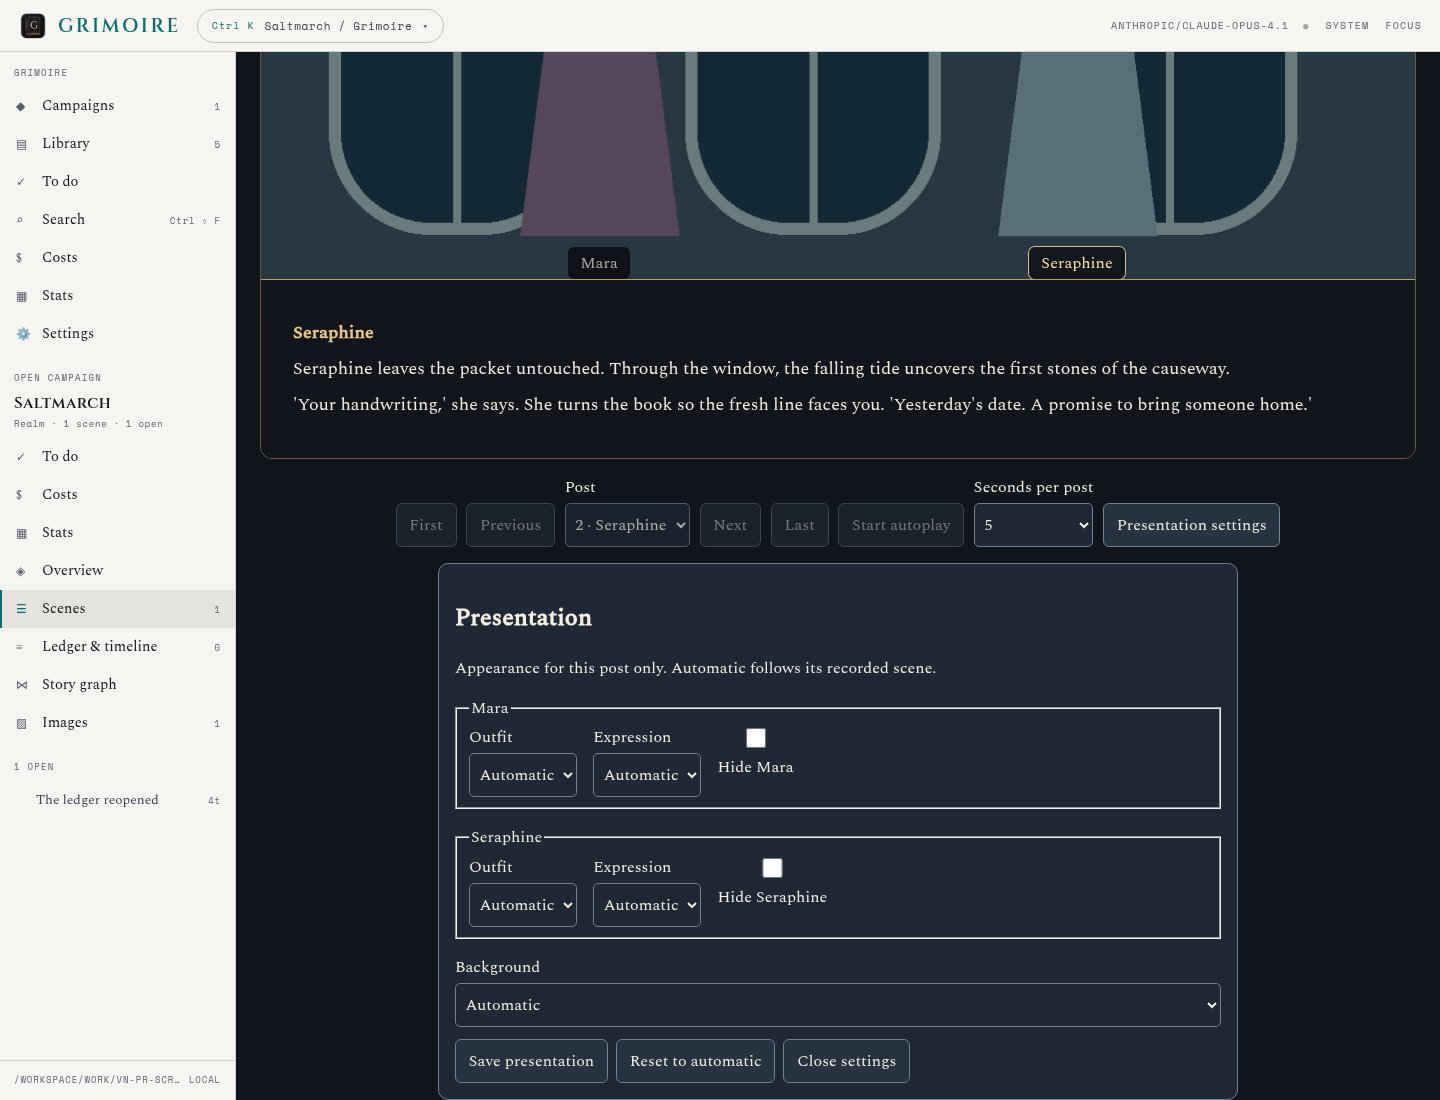
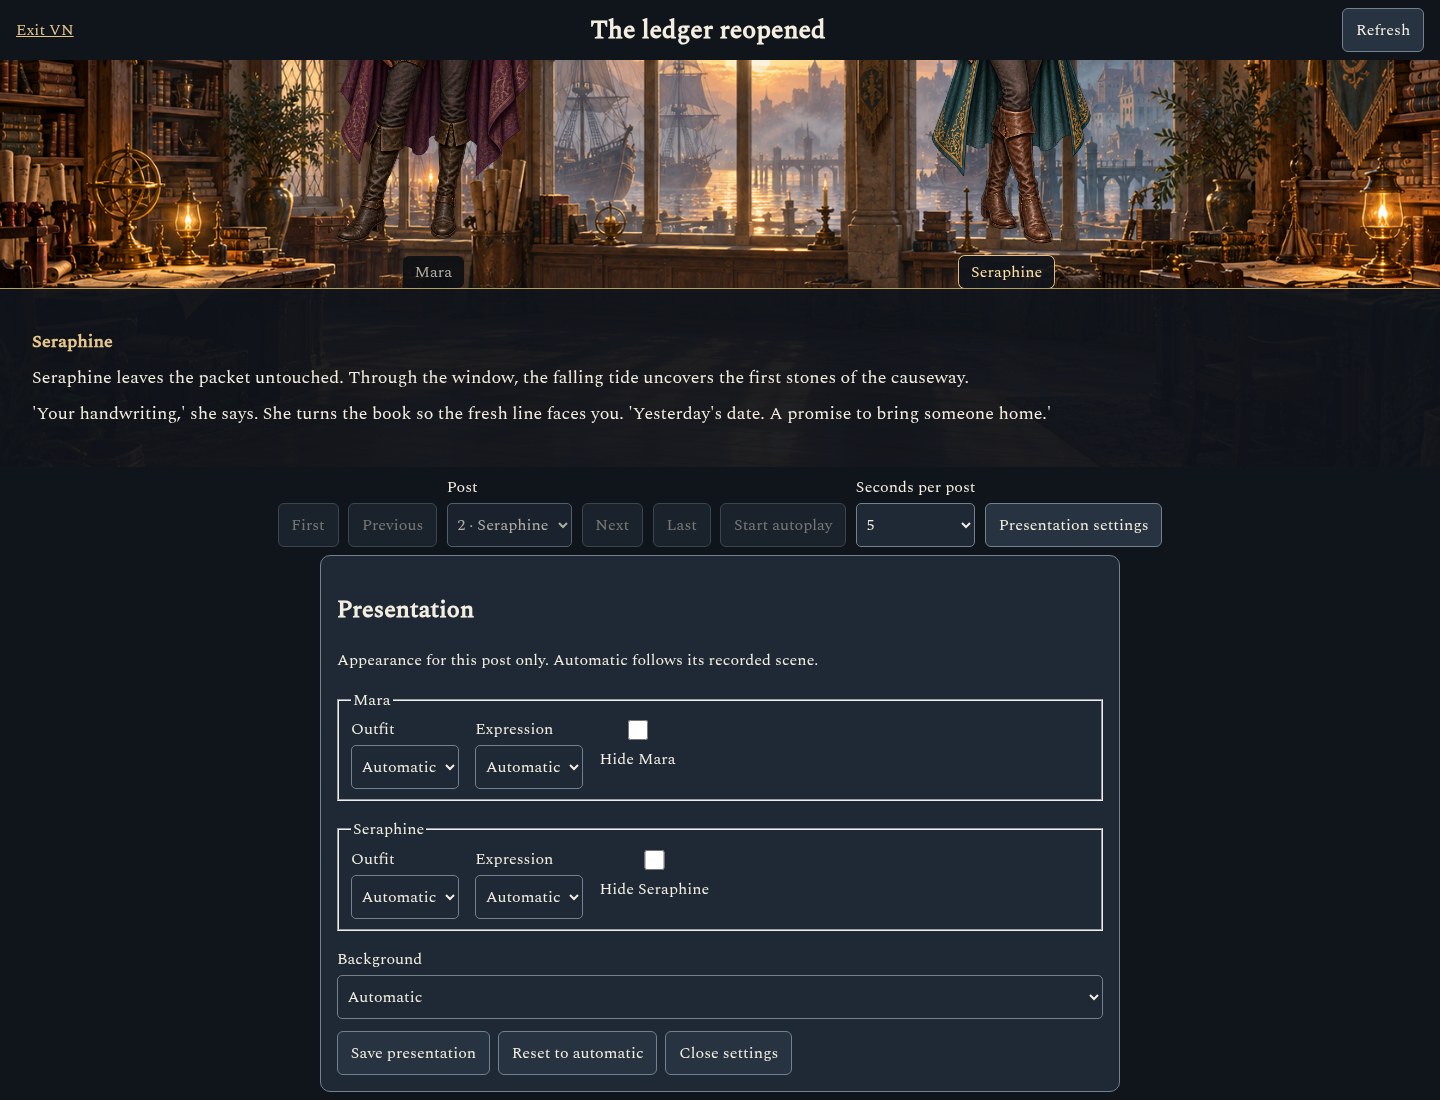
Make VN reader fill the viewport and refresh mockup artwork

diff --git a/frontend/src/components/vn/vn.css b/frontend/src/components/vn/vn.css
@@ -1,1 +1,15 @@
 .vn-reader{flex:1;min-width:0;padding:clamp(.75rem,2vw,1.5rem);background:#10141b;color:#f4eee0;overflow-y:auto}.vn-header{display:flex;align-items:center;justify-content:space-between;gap:1rem;margin-bottom:1rem}.vn-header h1{font-size:clamp(1.1rem,2vw,1.6rem);margin:0}.vn-reader a{color:#e5c58c}.vn-stage{position:relative;isolation:isolate;min-height:65vh;display:flex;flex-direction:column;justify-content:flex-end;border:1px solid #6e5c42;border-radius:12px;overflow:hidden;background:radial-gradient(ellipse at 50% 30%,#374855,#151c26 75%)}.vn-background{position:absolute;inset:0;width:100%;height:100%;object-fit:cover;z-index:-2}.vn-cast{display:flex;justify-content:space-evenly;align-items:flex-end;min-height:35vh;padding:1.5rem 1rem 0;overflow:hidden;gap:1rem}.vn-actor{position:relative;flex:1;min-width:0;max-width:280px;margin:0;text-align:center;filter:brightness(.72)}.vn-speaking{filter:brightness(1)}.vn-portrait{position:relative;height:35vh}.vn-actor img{position:absolute;display:block;width:100%;height:35vh;object-fit:contain;object-position:bottom}.vn-actor figcaption{position:relative;display:inline-block;background:#10141be6;padding:.25rem .75rem;border-radius:6px}.vn-speaking figcaption{color:#ffe2a6;box-shadow:0 0 0 1px #dfc08a}.vn-initials{height:28vh;display:grid;place-items:center;font-size:3rem;background:linear-gradient(transparent,#243341);border-radius:45% 45% 0 0}.vn-dialogue{background:#10141bf0;border-top:1px solid #b99d68;padding:clamp(1rem,3vw,2rem);font-size:1.12rem;line-height:1.65;max-height:45vh;overflow:auto}.vn-dialogue p{margin:.4rem 0}.vn-speaker{color:#e7c68b;font-weight:700}.vn-neutral{align-self:center;color:#d7d1c4}.vn-toolbar{display:flex;flex-wrap:wrap;align-items:end;justify-content:center;gap:.6rem;padding:1rem 0}.vn-reader button,.vn-reader select{min-height:44px;max-width:100%}.vn-reader button{background:#273341;color:#f4eee0;border:1px solid #73808d;border-radius:6px;padding:.5rem .8rem}.vn-reader button:disabled{opacity:.45}.vn-reader label{display:flex;flex-direction:column;gap:.25rem}.vn-reader select{background:#1e2935;color:#f4eee0;border:1px solid #73808d;border-radius:5px;padding:.35rem}.vn-settings{background:#1e2935;border:1px solid #73808d;border-radius:10px;padding:1rem;max-width:800px;margin:auto}.vn-settings fieldset{display:flex;flex-wrap:wrap;gap:1rem;margin:1rem 0}.vn-settings input{min-width:20px;min-height:20px}.vn-settings button{margin:.75rem .5rem 0 0}@media(max-width:500px){.vn-header{gap:.5rem;flex-wrap:wrap}.vn-stage{min-height:60vh}.vn-cast{gap:.4rem;padding:.75rem .4rem 0}.vn-portrait,.vn-actor img{height:28vh}.vn-dialogue{font-size:1rem;max-height:40vh}.vn-toolbar{gap:.4rem}.vn-toolbar button{flex-grow:1}.vn-toolbar label{flex-grow:1}.vn-settings fieldset{flex-direction:column}}@media(prefers-reduced-motion:reduce){.vn-reader *{animation:none;transition:none}}
+
+/* VN owns the viewport. Scroll long dialogue and settings independently so
+   the exit remains available even on small screens. */
+.vn-reader{position:relative;display:flex;flex-direction:column;min-height:0;padding:0;overflow:hidden}
+.vn-header{flex-shrink:0;margin:0;padding:.5rem 1rem;padding-top:max(.5rem,env(safe-area-inset-top))}
+.vn-stage{flex:1;min-height:0;border:0;border-radius:0}
+.vn-cast{flex:1;min-height:0}
+.vn-portrait,.vn-actor img{height:clamp(100px,40dvh,480px)}
+.vn-initials{height:clamp(100px,32dvh,380px)}
+.vn-dialogue{flex-shrink:0;max-height:40dvh}
+.vn-toolbar{flex-shrink:0;padding:.5rem;padding-bottom:max(.5rem,env(safe-area-inset-bottom))}
+.vn-reader>p{flex-shrink:0;margin:.25rem 1rem}
+.vn-settings{flex:0 1 auto;min-height:0;max-height:60%;overflow:auto;width:min(800px,calc(100% - 1.5rem));box-sizing:border-box;margin:0 auto .5rem}
+@media(max-width:500px){.vn-header{padding-inline:.75rem}.vn-toolbar{gap:.25rem}.vn-toolbar button,.vn-toolbar select{font-size:.85rem}.vn-dialogue{padding:.75rem 1rem;max-height:35dvh}.vn-portrait,.vn-actor img{height:30dvh}}

diff --git a/frontend/src/routes/VisualNovelView.test.tsx b/frontend/src/routes/VisualNovelView.test.tsx
@@ -7,7 +7,7 @@ const scene = { scene_identity: 'scene-one', title: 'Saltmarch', posts: [ { post
 const stage: VNStage = { scene_identity: 'scene-one', post_id: 'a', revision: '0', actors: [], backgrounds: [], background_url: null, location_name: null, notices: [], override: { actors: {}, background: null } };
 function mount() { return render(<MemoryRouter initialEntries={['/campaigns/c/scenes/s/vn']}><Routes><Route path="/campaigns/:cid/scenes/:sid/vn" element={<VisualNovelView />} /></Routes></MemoryRouter>); }
 beforeEach(() => { localStorage.clear(); vi.mocked(api.getVNScene).mockResolvedValue(structuredClone(scene)); vi.mocked(api.getVNPost).mockImplementation(async (_c, _s, id) => ({ ...stage, post_id: id })); });
-test('reads markdown, navigates stable posts and returns to exact play URL', async () => { mount(); expect(await screen.findByText('First words')).toBeInTheDocument(); expect(screen.getByRole('link', { name: 'Back to play' })).toHaveAttribute('href', '/campaigns/c/scenes/s'); fireEvent.click(screen.getByRole('button', { name: 'Next' })); expect(await screen.findByText('Last words')).toBeInTheDocument(); expect(screen.getByRole('button', { name: 'Next' })).toBeDisabled(); fireEvent.keyDown(window, { key: 'ArrowLeft' }); expect(await screen.findByText('First words')).toBeInTheDocument(); });
+test('reads markdown, navigates stable posts and returns to exact play URL', async () => { mount(); expect(await screen.findByText('First words')).toBeInTheDocument(); expect(screen.getByRole('link', { name: 'Exit VN' })).toHaveAttribute('href', '/campaigns/c/scenes/s'); fireEvent.click(screen.getByRole('button', { name: 'Next' })); expect(await screen.findByText('Last words')).toBeInTheDocument(); expect(screen.getByRole('button', { name: 'Next' })).toBeDisabled(); fireEvent.keyDown(window, { key: 'ArrowLeft' }); expect(await screen.findByText('First words')).toBeInTheDocument(); });
 test('refresh preserves cursor and visibly recovers deleted posts', async () => { mount(); await screen.findByText('First words'); fireEvent.click(screen.getByRole('button', { name: 'Next' })); await screen.findByText('Last words'); vi.mocked(api.getVNScene).mockResolvedValue({ ...scene, posts: [scene.posts[0]] }); fireEvent.click(screen.getByRole('button', { name: 'Refresh' })); expect(await screen.findByText(/no longer available/i)).toBeInTheDocument(); expect(screen.getByText('First words')).toBeInTheDocument(); });
 test('retains a settings draft after save failure and resets automatic presentation', async () => { vi.mocked(api.saveVNPresentation).mockRejectedValueOnce(new Error('Stale presentation')); mount(); await screen.findByText('First words'); fireEvent.click(screen.getByRole('button', { name: 'Presentation settings' })); fireEvent.click(screen.getByRole('button', { name: 'Save presentation' })); expect(await screen.findByText('Stale presentation')).toBeInTheDocument(); expect(screen.getByRole('button', { name: 'Save presentation' })).toBeEnabled(); vi.mocked(api.saveVNPresentation).mockResolvedValue(stage); fireEvent.click(screen.getByRole('button', { name: 'Reset to automatic' })); await waitFor(() => expect(api.saveVNPresentation).toHaveBeenLastCalledWith('c', 's', 'a', { scene_identity: 'scene-one', expected_revision: '0', actors: {}, background: null })); });
 test('restores a stable cursor after reload and tolerates unavailable storage', async () => { localStorage.setItem('vn-cursor:scene-one', 'b'); const view = mount(); expect(await screen.findByText('Last words')).toBeInTheDocument(); view.unmount(); const storage = vi.spyOn(Storage.prototype, 'getItem').mockImplementation(() => { throw new Error('Unavailable'); }); mount(); expect(await screen.findByText('First words')).toBeInTheDocument(); storage.mockRestore(); });

diff --git a/frontend/src/App.tsx b/frontend/src/App.tsx
@@ -1,5 +1,5 @@
 import { memo, useCallback, useEffect, useMemo, useRef, useState } from "react";
-import { useLocation, useNavigate } from "react-router-dom";
+import { matchPath, useLocation, useNavigate } from "react-router-dom";
 import { api, type ProviderHealth } from "./api/client";
 import { ThemeProvider } from "./theme/ThemeProvider";
 import { DEFAULT_MODE } from "./theme/themes";
@@ -59,7 +59,9 @@ const Shell = memo(function Shell(
   // docstring calls a navigation surface beside them an answer of "nothing,
   // finish this first". On a first run the rail would otherwise offer
   // Campaigns, Library and Configuration before setup has been answered.
-  const noRail = railless(location.pathname) || focus;
+  // VN owns the viewport; its exit link restores the ordinary shell.
+  const immersive = !!matchPath('/campaigns/:cid/scenes/:sid/vn', location.pathname);
+  const noRail = railless(location.pathname) || focus || immersive;
   const storeGen = useStoreGeneration();
 
   return (
@@ -72,10 +74,10 @@ const Shell = memo(function Shell(
           `CampaignView` the scene bar and scene head — together those are the
           ~300px of chrome that, on a phone, left a transcript about half the
           viewport. */}
-      {focus ? <FocusRestore />
+      {!immersive && (focus ? <FocusRestore />
              : <AppHeader model={model} connection={connection} ready={ready}
                           health={health} railDrawer={!docked} campaign={shell.payload?.campaign}
-                          onOpenRail={openRail} />}
+                          onOpenRail={openRail} />)}
       <AppPaletteSource payload={shell.payload} />
       <CommandPalette />
       {/* `?`, and the sheet that lists whatever is bound where you are

diff --git a/frontend/src/routes/VisualNovelView.tsx b/frontend/src/routes/VisualNovelView.tsx
@@ -73,7 +73,7 @@ function VNReader({ cid, sid }: { cid: string; sid: string }) {
   ]);
   const playHref = `/campaigns/${encodeURIComponent(cid)}/scenes/${encodeURIComponent(sid)}`;
   return <main className="vn-reader" aria-label="Visual novel reader">
-    <header className="vn-header"><Link to={playHref}>Back to play</Link><h1>{scene?.title || 'Visual novel'}</h1><button disabled={refreshing} onClick={() => void refresh()}>Refresh</button></header>
+    <header className="vn-header"><Link to={playHref}>Exit VN</Link><h1>{scene?.title || 'Visual novel'}</h1><button disabled={refreshing} onClick={() => void refresh()}>Refresh</button></header>
     {notice && <p role="status">{notice}</p>}{error && <p role="alert">{error}</p>}
     <section className="vn-stage" aria-label={stage?.location_name ? `Stage: ${stage.location_name}` : 'Stage: unknown location'}>
       {stage?.background_url && <img key={stage.background_url} className="vn-background" src={stage.background_url} alt="" onError={e => { e.currentTarget.style.visibility = 'hidden'; }} />}

diff --git a/docs/screenshots/pr-554/README.md b/docs/screenshots/pr-554/README.md
@@ -11,20 +11,25 @@ These are direct, unedited Chromium viewport captures at device scale 1.
 
 The isolated library uses only synthetic names and story text from
 [the documentation fixture](../../../backend/tests/fixtures/documentation/library.json).
-The character silhouettes and Counting House backdrop are procedurally generated
-fixture art, stored through the application asset API. They demonstrate sprite
+The character sprites and Counting House backdrop were made with the GPT image
+generator and stored through the application asset store. They demonstrate sprite
 placement, speaker highlighting and background rendering; they are not real
-library assets or model-generated product output.
+library assets or artwork generated by Grimoire.
 
 The session followed the [isolated capture procedure](../README.md), using fresh
 pytest storage, backend port 8209, Vite port 5209 and a fresh browser profile.
 The empty library was verified before seeding. Historical checkpoints were
 created for the fixture posts. A cassette-backed fake supplied the model
 dependency, and provider endpoints were redirected to loopback. No hosted model
-calls were made. No DOM replacement, image editing or redaction was used.
+calls were made. No DOM replacement, screenshot editing or redaction was used.
 
-The reader is on the second post, with Seraphine speaking. The controls capture
+The reader occupies the full application viewport; Exit VN returns to play and
+restores the application navigation. The reader is on the second post, with
+Seraphine speaking. The controls capture
 shows per-character outfit, expression and visibility options and the location
 background setting. Each image was visually inspected; the browser reported no
 page errors or failed requests, and mobile content had no horizontal overflow.
-Temporary scripts, browser profiles, stores and logs remain outside the public tree.
+The viewport and exit flow were also checked at 1440 × 900, 390 × 844 and
+667 × 375: the reader matched the viewport bounds and exiting restored the app
+header. Temporary scripts, browser profiles, stores and logs remain outside the
+public tree.

diff --git a/docs/guides/playing.md b/docs/guides/playing.md
@@ -99,6 +99,8 @@ material. A generated suggestion does not become authoritative by appearing ther
 ## Visual novel reader
 
 Open **Scene ⋯ → Visual novel reader** to read the current scene on a stage.
+The reader fills the application viewport. Choose **Exit VN** to return to play
+and restore Campaign, Library, and the other navigation.
 Previous/Next and First/Last move between posts; the Post selector jumps directly.
 The arrow keys, Home and End provide the same navigation. Autoplay advances at
 its selected interval and stops at the end, on an error, or when presentation

diff --git a/docs/screenshots/README.md b/docs/screenshots/README.md
@@ -8,7 +8,7 @@ They contain no records, images, model responses or statistics from a personal
 Grimoire library. Initials are the application's normal fallback for records
 without art in the original captures below; no generated artwork or image editing
 was used for those captures. The [PR #554 VN captures](pr-554/README.md) add
-procedurally generated fixture artwork.
+GPT-generated fixture artwork.
 
 ## Published captures
 
